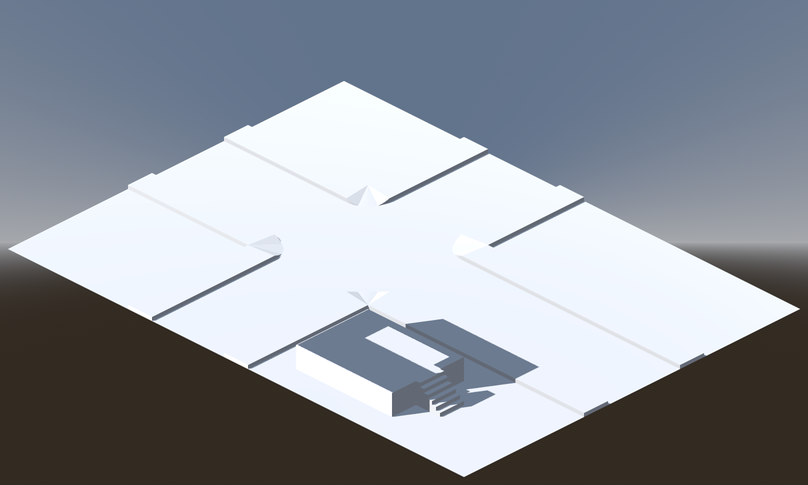
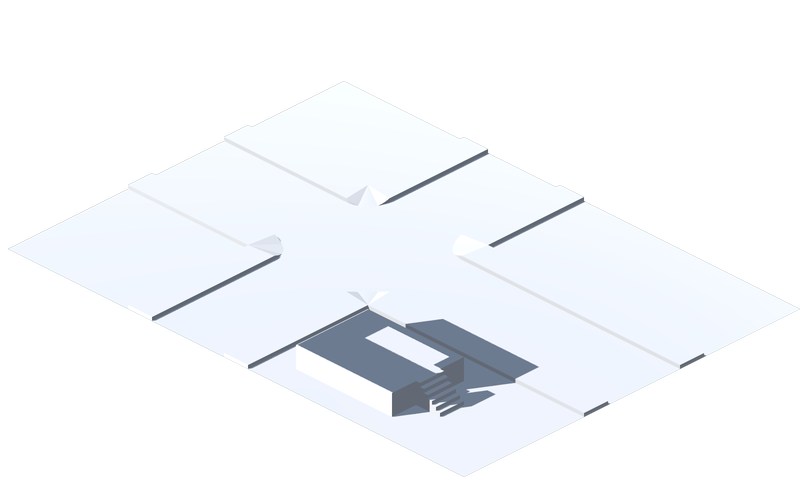
Lighting bake

diff --git a/docs/dungeon-lighting.md b/docs/dungeon-lighting.md
@@ -30,9 +30,24 @@ by the pixel it lands on and the sprite is lit.
    appearing in this floor's picture.
 4. The frame is grabbed, boxed down from `supersample`, and saved as a png.
 
-Baking runs on the `Bake lighting` button, and automatically whenever `Level._ready` finds
-the tile stamp on disk no longer matches the tiles. Both are editor only — a bake writes
-to `res://`. The stamp is the same fingerprint the old GI bake used.
+The viewport is transparent and the bake environment's background is forced to clear colour,
+so **nothing but tiles reaches the film** — no sky, no horizon. The sky is still switched on
+as an ambient and reflection source, and the renderer keeps it for those even when it is never
+drawn, so shadows are filled exactly as they are in game.
+
+Alpha is **coverage, not light**: 1 where the bake saw a tile, 0 where it saw nothing. The
+light itself is bled a few pixels past every silhouette (`fix_alpha_edges`) before the
+downsample, because `Image.resize` knows nothing about alpha and would otherwise average
+every edge with transparent black and outline each tile in soot. So a sprite that overhangs
+its mesh by a pixel still samples real light.
+
+A bake happens when the `Bake lighting` button is pressed, or when `Level._ready` finds no
+bake on disk, or one whose tile stamp no longer matches the tiles. The stamp is the same
+fingerprint the old GI bake used.
+
+**Rendering works anywhere; saving does not.** `res://` is only a real directory in an editor
+build — an export packs it read-only. So a shipped game missing its bake still lights itself
+correctly, it just re-shoots into memory on every launch and warns. Ship the pngs.
 
 > The bake is offline, so **quality is free**. Nothing about it runs in game. Point
 > `bake_environment` at an `Environment` with SSIL, high SSAO, and a big shadow size and
@@ -58,8 +73,9 @@ px.y = (rect.end.y - view.y)      / IsoView.WORLD_PER_PX
 That is `LightBakeTools.to_pixel`. The depth component is thrown away — which is exactly
 why there is one image per elevation, since two elevations land on the same pixel.
 
-Set the pngs to **Lossless, no mipmaps, Nearest** in the import dock. Anything else
-softens the light across pixel boundaries and shows up as fringing on the sprites.
+Set the pngs to **Lossless, no mipmaps, Nearest** in the import dock, and leave the alpha
+channel alone. Anything else softens the light across pixel boundaries and shows up as
+fringing on the sprites.
 
 ## 3. Using it
 
@@ -125,10 +141,8 @@ shader. None of this exists yet — `LightBake` is the static half.
 
 ## 6. Editor aids
 
-- **Bake lighting** on `Level` — re-shoots every elevation and writes the pngs. Editor
-  only, writes to disk.
-- **`auto_bake`** on `LightBake` — re-shoots on scene load when the tiles have changed.
-  Turn it off if the reimport churn gets annoying.
+- **Bake lighting** on `Level` — re-shoots every elevation and writes the pngs, whether or
+  not anything changed.
 - **`supersample`** — render multiple, then box down. 2 is usually enough to kill the
   stair-stepping on shadow edges; 1 is a fast preview.
 - The pngs are plain images. Painting on them by hand works, until the next bake.
